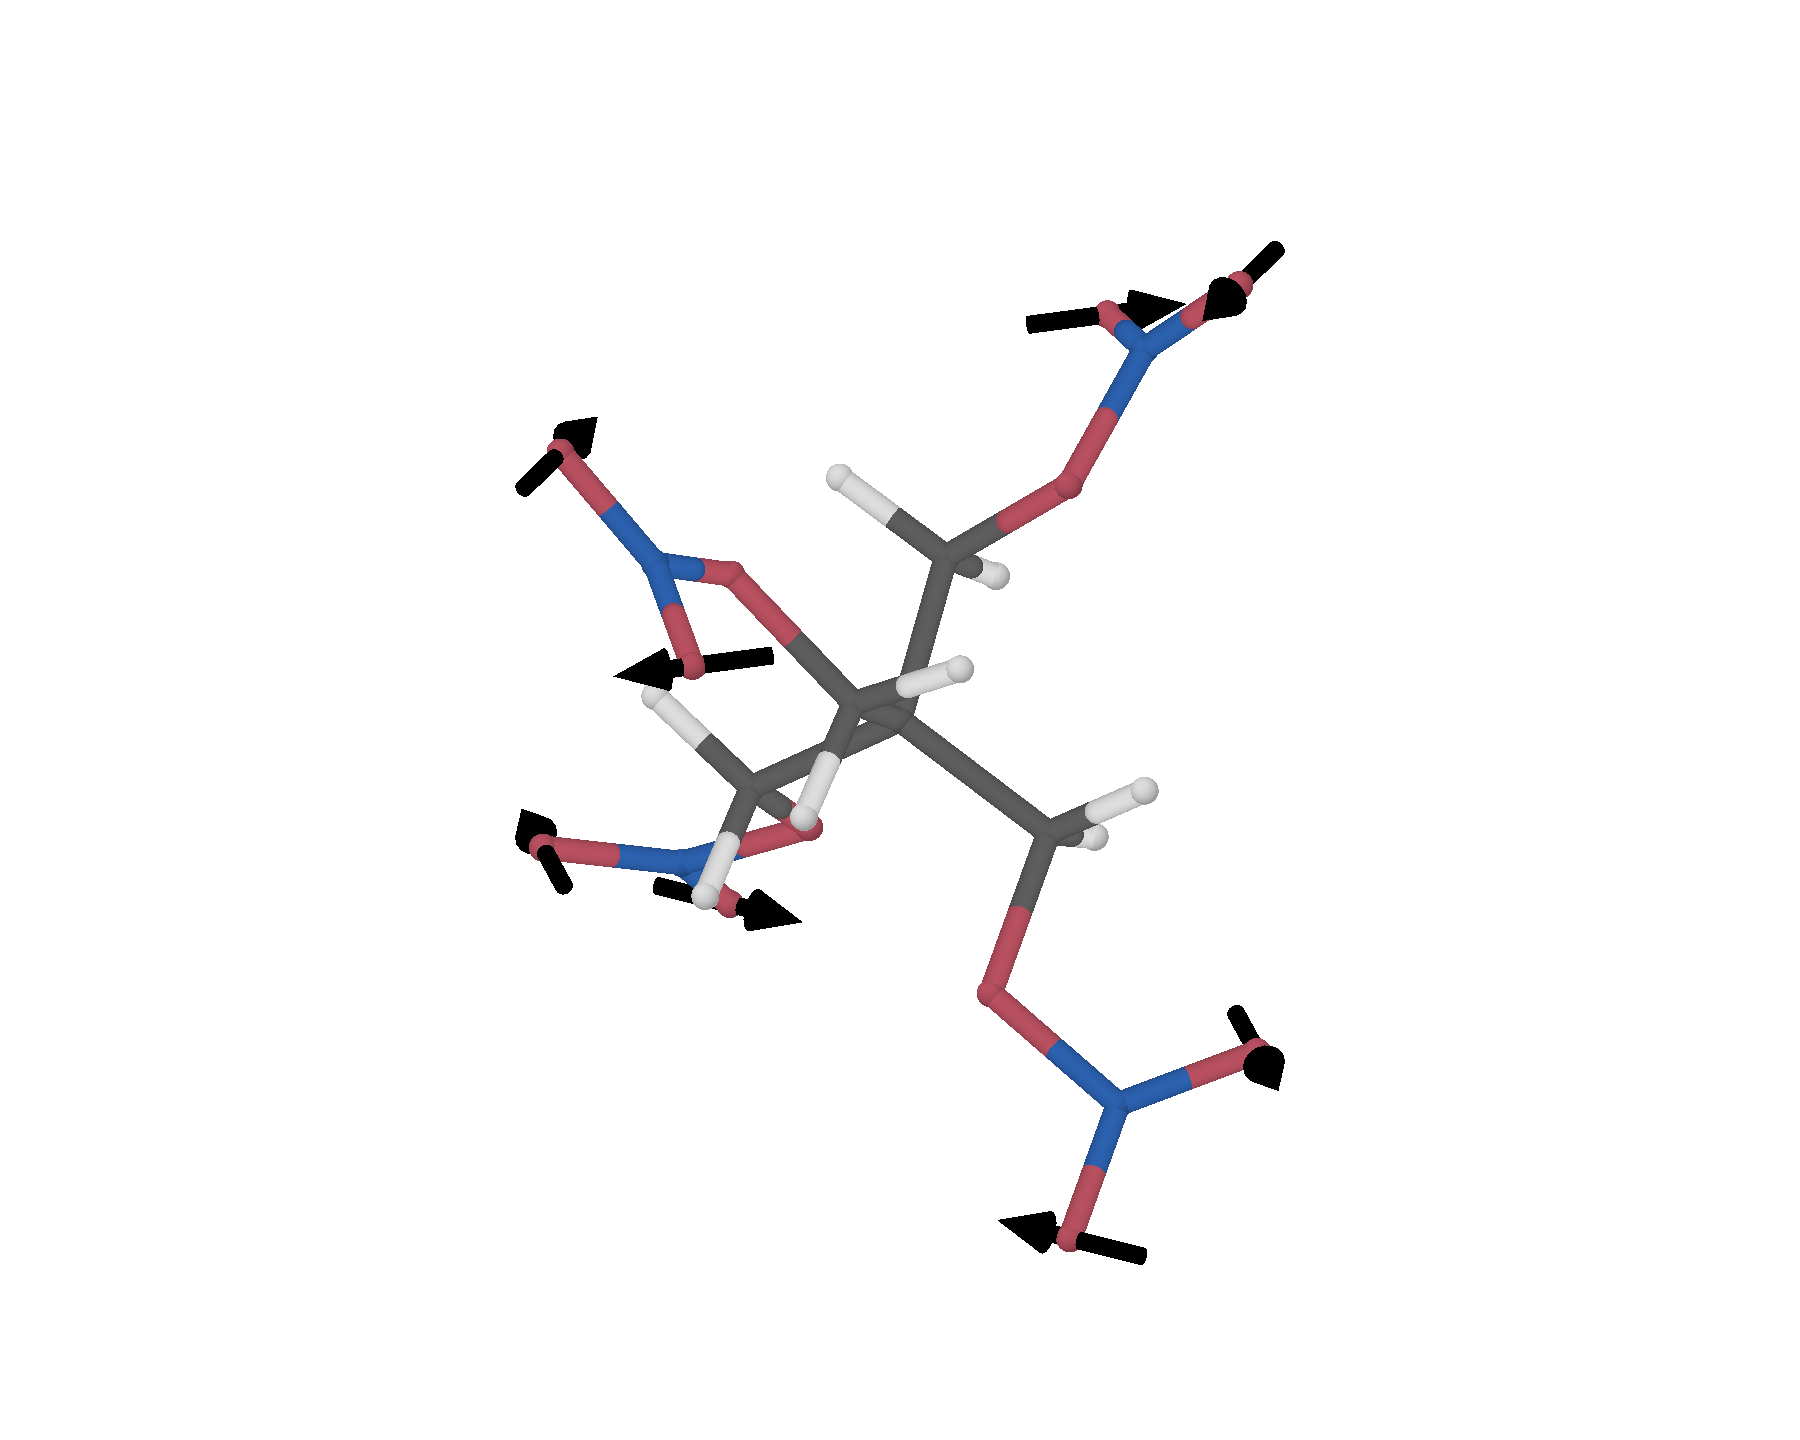
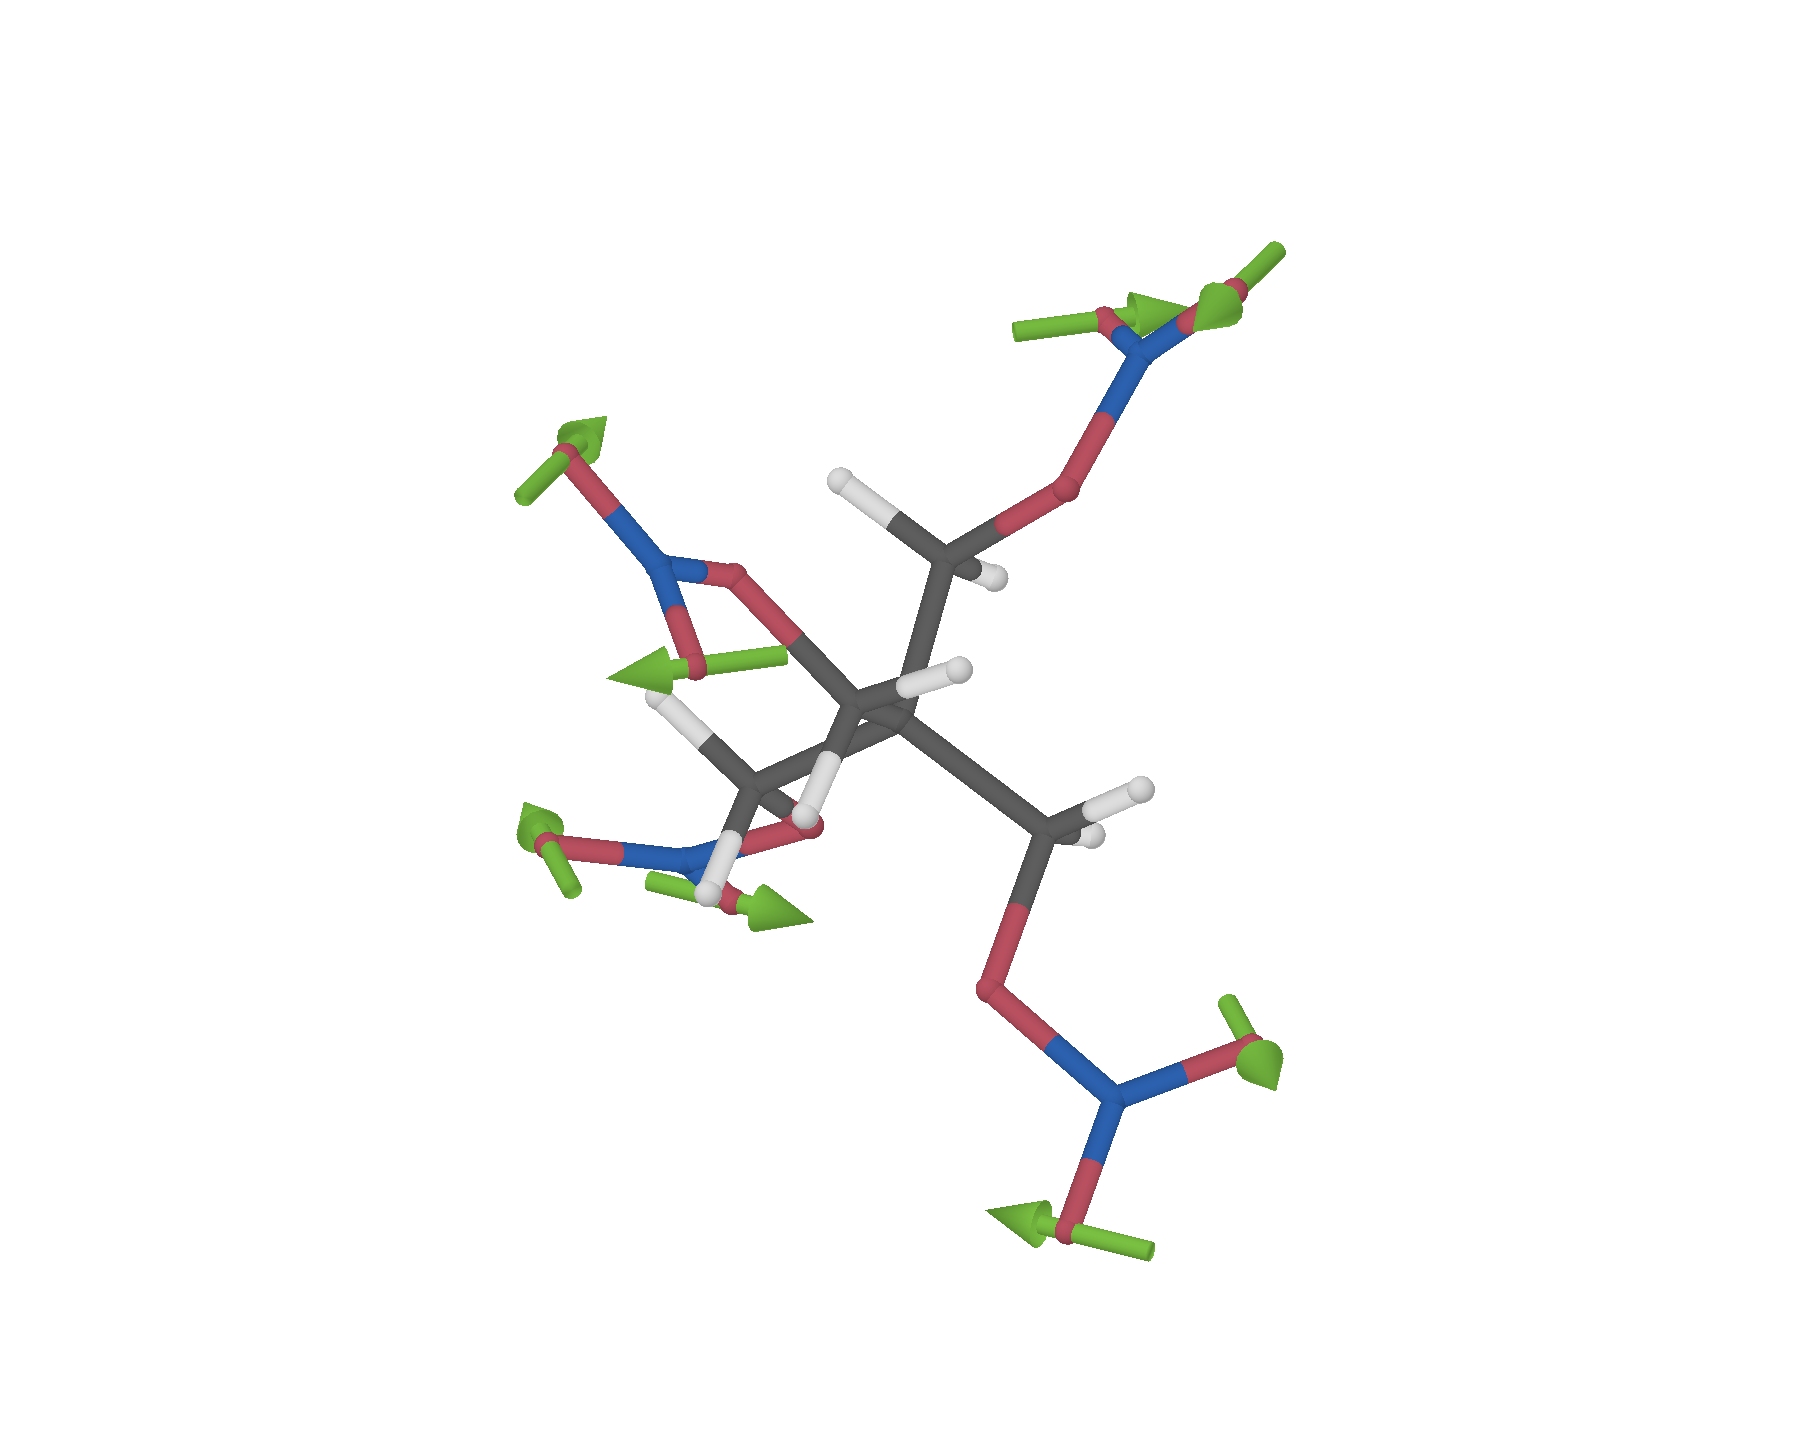
Draw the PETN arrows in fruit green at 1.15 times their previous size.
Black shafts were hard to read against the molecule.

diff --git a/docs/images/render_panels.py b/docs/images/render_panels.py
@@ -232,7 +232,7 @@ def _unit(vector: np.ndarray) -> np.ndarray:
 
 
 def _write_mode_arrows() -> list[dict]:
-    """One black arrow on each terminal oxygen, perpendicular to the N–O bond."""
+    """One fruit-green arrow on each terminal oxygen, perpendicular to the N–O bond."""
     lines = PETN.read_text(encoding="utf-8").splitlines()
     count = int(lines[0].split()[0])
     atoms = []
@@ -256,17 +256,17 @@ def _write_mode_arrows() -> list[dict]:
         along = _unit(origin - nitrogen)
         reference = np.array([0.0, 0.0, 1.0]) if abs(float(along[2])) < 0.85 else np.array([1.0, 0.0, 0.0])
         sideways = _unit(np.cross(along, reference))
-        arrows.append({"id": f"wag-{index}", "origin": origin.round(4).tolist(), "vector": (sideways * 1.35).round(4).tolist()})
+        arrows.append({"id": f"wag-{index}", "origin": origin.round(4).tolist(), "vector": (sideways * 1.35 * 1.15).round(4).tolist()})
     payload = [
         {
             "id": "mode",
             "magnitude_mode": "absolute",
             "anchor": "center",
             "viewport_policy": "include",
-            "color": "#000000",
+            "color": "#7AC142",
             "note": "Mock nitrate motion perpendicular to each N-O bond. Not a phonon.",
             "style": {
-                "shaft_radius": 0.075,
+                "shaft_radius": 0.075 * 1.15,
                 "head_radius_ratio": 2.4,
                 "head_length_ratio": 0.34,
                 "sides": 16,

diff --git a/docs/images/compose_readme.py b/docs/images/compose_readme.py
@@ -3,7 +3,7 @@
 The three panels occupy equal thirds. ``render_panels.py`` draws them:
 disorder fades atoms and bonds by occupancy, DAP-7 is viewed straight down
 the b axis with one A hull and one B hull kept visible, and PETN carries a
-black mock arrow on each terminal oxygen, perpendicular to the N–O bond.
+fruit-green mock arrow on each terminal oxygen, perpendicular to the N–O bond.
 
     PYTHONPATH=. python docs/images/render_panels.py
 
